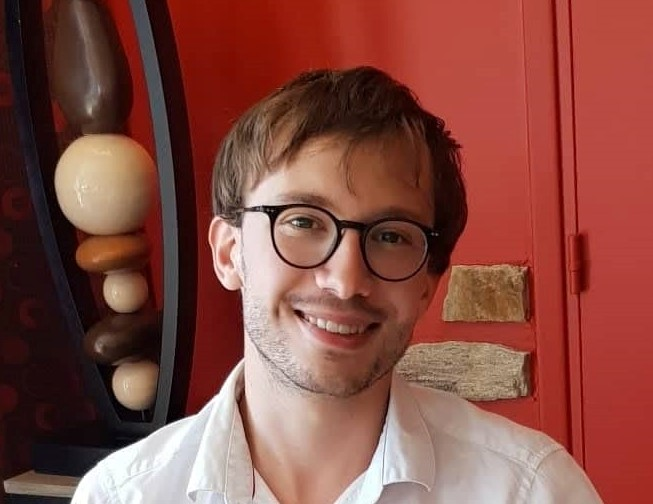
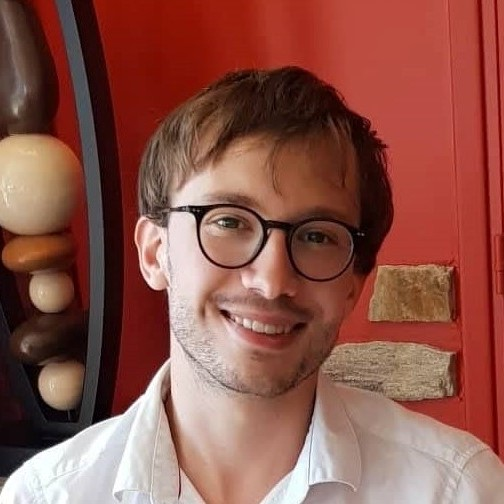
photo carrée

diff --git a/copie_vadim.html b/copie_vadim.html
@@ -17,7 +17,7 @@
                 <a href="research.html" class="Research">Recherche</a>
                 <a href="teaching.html" class="Teaching">Enseignement</a>
             </nav>
-            <img/ src="img/BG.jpg" alt="Photo perso" title="Antoine Commaret" align="center">
+            <img/ src="img/BG.jpg" alt="Photo perso" title="Antoine Commaret" align="profile_picture">
             <p> 
                 Doctorant à l' <a href="https://www.inria.fr/fr/centre-inria-sophia-antipolis-mediterranee" target="_blank">INRIA Sophia-Antipolis</a>, dans l'équipe <a> DataShape</a> et à l' <a href="https://team.inria.fr/datashape/" target="_blank">Université Côte d'Azur</a> 
 				sous la direction de <a href="http://geometrica.saclay.inria.fr/team/Steve.Oudot/" target="_blank">David Cohen-Steiner</a> et d'<a href="http://www.fpetit.org/" target="_blank">Indira Chatterji</a>.<br><br>

diff --git a/copie.css b/copie.css
@@ -43,7 +43,8 @@ header
 .profile_picture
 {
     display: flex;
-
+    margin-left: auto;
+    margin-right: auto
 }
 
 /* Navigation */
